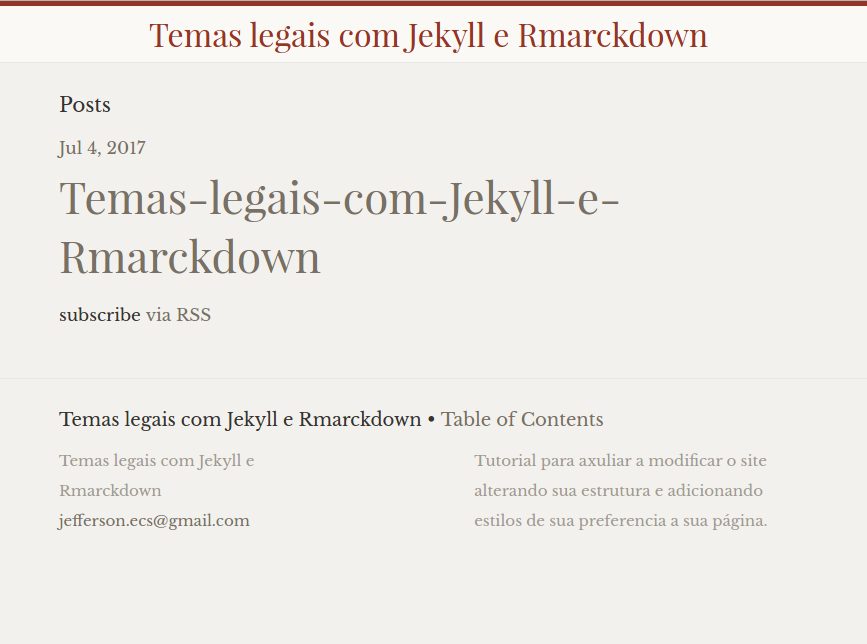
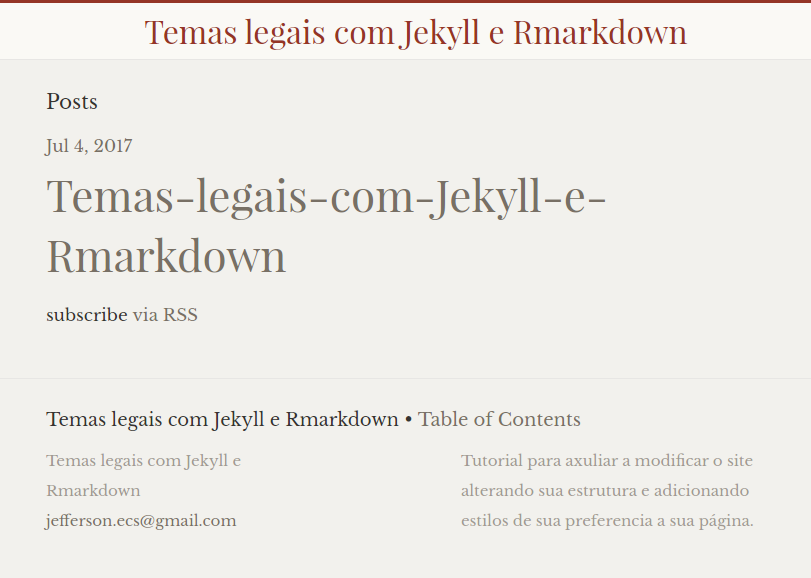
Temas Ligais com Jekyll e Rmarkdown

diff --git a/_site/2017/07/04/Temas-legais-com-Jekyll-e-Rmarkdown.html b/_site/2017/07/04/Temas-legais-com-Jekyll-e-Rmarkdown.html
@@ -8,23 +8,23 @@
 	<meta name="theme-color" content="#943526">
 
 	
-	<meta property="og:image" content="https://jeffersonemanuel.github.io/Temas-legais-com-Jekyll-e-Rmarckdown//thumbnail.jpg">
+	<meta property="og:image" content="https://jeffersonemanuel.github.io/Temas-legais-com-Jekyll-e-Rmarkdown//thumbnail.jpg">
 	
 
 	
-	<meta property="og:title" content="Temas legais com Jekyll e Rmarckdown • Temas-legais-com-Jekyll-e-Rmarckdown">
+	<meta property="og:title" content="Temas legais com Jekyll e Rmarkdown • Temas-legais-com-Jekyll-e-Rmarkdown">
 	
 
 	<link rel="icon" href="/favicon.png" type="image/png">
 
-	<title>Temas-legais-com-Jekyll-e-Rmarckdown</title>
+	<title>Temas-legais-com-Jekyll-e-Rmarkdown</title>
 	<meta name="description" content="O Jekyll possui um extenso sistema temático que permite alavancar diversos modelos e estilos disponibilizados e mantidos pela comunidade para personalizar a ...">
 
 	<link rel='stylesheet' id='libretto-fonts-css'  href='https://fonts.googleapis.com/css?family=Libre+Baskerville%3A400%2C700%2C400italic%7CPlayfair+Display%3A400%2C700%2C400italic%2C700italic%7CPlayfair+Display+SC%3A700%2C700italic%7CMontserrat%3A400%7CDroid+Sans+Mono%3A400&#038;subset=latin%2Clatin-ext' type='text/css' media='all'>
 
 	<link rel="stylesheet" href="/css/main.css">
-	<link rel="canonical" href="https://jeffersonemanuel.github.io/Temas-legais-com-Jekyll-e-Rmarckdown//2017/07/04/Temas-legais-com-Jekyll-e-Rmarckdown.html">
-	<link rel="alternate" type="application/rss+xml" title="Temas legais com Jekyll e Rmarckdown" href="https://jeffersonemanuel.github.io/Temas-legais-com-Jekyll-e-Rmarckdown//feed.xml">
+	<link rel="canonical" href="https://jeffersonemanuel.github.io/Temas-legais-com-Jekyll-e-Rmarkdown//2017/07/04/Temas-legais-com-Jekyll-e-Rmarkdown.html">
+	<link rel="alternate" type="application/rss+xml" title="Temas legais com Jekyll e Rmarkdown" href="https://jeffersonemanuel.github.io/Temas-legais-com-Jekyll-e-Rmarkdown//feed.xml">
 </head>
 
 
@@ -34,7 +34,7 @@
 
 	<div class="wrapper">
 
-		<a class="site-title" href="/">Temas legais com Jekyll e Rmarckdown</a>
+		<a class="site-title" href="/">Temas legais com Jekyll e Rmarkdown</a>
 
 	</div>
 
@@ -48,7 +48,7 @@
 		<span>Posted on </span><span class="post-meta">July 4, 2017</span>
 	</div>
 
-	<h1 class="post-title" itemprop="name headline">Temas-legais-com-Jekyll-e-Rmarckdown</h1>
+	<h1 class="post-title" itemprop="name headline">Temas-legais-com-Jekyll-e-Rmarkdown</h1>
 </header>
 
 <article class="post" itemscope itemtype="http://schema.org/BlogPosting">
@@ -118,19 +118,19 @@
 
 <ul>
   <li>
-    <p>No diretório com os arquivos extraidos faça uma cópia dos diretórios <em>_includes</em>, <em>_layouts</em>, <em>_sass</em>, <em>assets</em> e <em>css</em>  que são disponibilizados;</p>
+    <p>No diretório com os arquivos extraídos faça uma cópia dos diretórios <em>_includes</em>, <em>_layouts</em>, <em>_sass</em>, <em>assets</em> e <em>css</em>  que são disponibilizados;</p>
   </li>
   <li>
     <p>Acesse o diretório raiz do seu projeto (Primeiro Site) e cole/substitua os diretórios;</p>
   </li>
   <li>
-    <p>Abra o seu projeto Rmarckdown + Jekyll e execulte-o utilizando os comandos: <em>brocks::blog_gen()</em> e  <em>brocks::blog_serve()</em>.</p>
+    <p>Abra o seu projeto Rmarkdown + Jekyll e execute-o utilizando os comandos: <em>brocks::blog_gen()</em> e  <em>brocks::blog_serve()</em>.</p>
   </li>
 </ul>
 
-<p>Ao execultar o projeto se tudo ocorreu corretamente o site deverá ter o novo tema.</p>
+<p>Ao executar o projeto se tudo ocorreu corretamente o site deverá ter o novo tema.</p>
 
-<p><img src="https://s15.postimg.org/3ycrligyz/aparencianova.png" alt="Site com tema alterado" /></p>
+<p><img src="https://s12.postimg.org/hmzir4ikt/aparencianova.png" alt="Site com tema alterado" /></p>
 
 	</div>
 </article>
@@ -152,12 +152,12 @@
 
 	<div class="wrapper">
 
-		<h2 class="footer-heading">Temas legais com Jekyll e Rmarckdown • <a href="/table-of-contents">Table of Contents</a></h2>
+		<h2 class="footer-heading">Temas legais com Jekyll e Rmarkdown • <a href="/table-of-contents">Table of Contents</a></h2>
 
 		<div class="footer-col-wrapper">
 			<div class="footer-col footer-col-1">
 				<ul class="contact-list">
-					<li>Temas legais com Jekyll e Rmarckdown</li>
+					<li>Temas legais com Jekyll e Rmarkdown</li>
 					<li><a href="mailto:jefferson.ecs@gmail.com">jefferson.ecs@gmail.com</a></li>
 				</ul>
 			</div>

diff --git a/_site/table-of-contents.html b/_site/table-of-contents.html
@@ -8,23 +8,23 @@
 	<meta name="theme-color" content="#943526">
 
 	
-	<meta property="og:image" content="https://jeffersonemanuel.github.io/Temas-legais-com-Jekyll-e-Rmarckdown//thumbnail.jpg">
+	<meta property="og:image" content="https://jeffersonemanuel.github.io/Temas-legais-com-Jekyll-e-Rmarkdown//thumbnail.jpg">
 	
 
 	
-	<meta property="og:title" content="Temas legais com Jekyll e Rmarckdown">
+	<meta property="og:title" content="Temas legais com Jekyll e Rmarkdown">
 	
 
 	<link rel="icon" href="/favicon.png" type="image/png">
 
-	<title>Temas legais com Jekyll e Rmarckdown</title>
+	<title>Temas legais com Jekyll e Rmarkdown</title>
 	<meta name="description" content="Tutorial para axuliar a modificar o site alterando sua estrutura e adicionando estilos de sua preferencia a sua página.">
 
 	<link rel='stylesheet' id='libretto-fonts-css'  href='https://fonts.googleapis.com/css?family=Libre+Baskerville%3A400%2C700%2C400italic%7CPlayfair+Display%3A400%2C700%2C400italic%2C700italic%7CPlayfair+Display+SC%3A700%2C700italic%7CMontserrat%3A400%7CDroid+Sans+Mono%3A400&#038;subset=latin%2Clatin-ext' type='text/css' media='all'>
 
 	<link rel="stylesheet" href="/css/main.css">
-	<link rel="canonical" href="https://jeffersonemanuel.github.io/Temas-legais-com-Jekyll-e-Rmarckdown//table-of-contents.html">
-	<link rel="alternate" type="application/rss+xml" title="Temas legais com Jekyll e Rmarckdown" href="https://jeffersonemanuel.github.io/Temas-legais-com-Jekyll-e-Rmarckdown//feed.xml">
+	<link rel="canonical" href="https://jeffersonemanuel.github.io/Temas-legais-com-Jekyll-e-Rmarkdown//table-of-contents.html">
+	<link rel="alternate" type="application/rss+xml" title="Temas legais com Jekyll e Rmarkdown" href="https://jeffersonemanuel.github.io/Temas-legais-com-Jekyll-e-Rmarkdown//feed.xml">
 </head>
 
 
@@ -34,7 +34,7 @@
 
 	<div class="wrapper">
 
-		<a class="site-title" href="/">Temas legais com Jekyll e Rmarckdown</a>
+		<a class="site-title" href="/">Temas legais com Jekyll e Rmarkdown</a>
 
 	</div>
 
@@ -52,7 +52,7 @@
 		<li>
 			<span class="post-meta" style="font-style: italic;">• July 4, 2017 •</span>
 
-			<h3><a href="/2017/07/04/Temas-legais-com-Jekyll-e-Rmarckdown.html">Temas-legais-com-Jekyll-e-Rmarckdown</a></h3>
+			<h3><a href="/2017/07/04/Temas-legais-com-Jekyll-e-Rmarkdown.html">Temas-legais-com-Jekyll-e-Rmarkdown</a></h3>
 		</li>
 		
 	</ul>
@@ -66,12 +66,12 @@
 
 	<div class="wrapper">
 
-		<h2 class="footer-heading">Temas legais com Jekyll e Rmarckdown • <a href="/table-of-contents">Table of Contents</a></h2>
+		<h2 class="footer-heading">Temas legais com Jekyll e Rmarkdown • <a href="/table-of-contents">Table of Contents</a></h2>
 
 		<div class="footer-col-wrapper">
 			<div class="footer-col footer-col-1">
 				<ul class="contact-list">
-					<li>Temas legais com Jekyll e Rmarckdown</li>
+					<li>Temas legais com Jekyll e Rmarkdown</li>
 					<li><a href="mailto:jefferson.ecs@gmail.com">jefferson.ecs@gmail.com</a></li>
 				</ul>
 			</div>

diff --git a/_site/index.html b/_site/index.html
@@ -8,23 +8,23 @@
 	<meta name="theme-color" content="#943526">
 
 	
-	<meta property="og:image" content="https://jeffersonemanuel.github.io/Temas-legais-com-Jekyll-e-Rmarckdown//thumbnail.jpg">
+	<meta property="og:image" content="https://jeffersonemanuel.github.io/Temas-legais-com-Jekyll-e-Rmarkdown//thumbnail.jpg">
 	
 
 	
-	<meta property="og:title" content="Temas legais com Jekyll e Rmarckdown">
+	<meta property="og:title" content="Temas legais com Jekyll e Rmarkdown">
 	
 
 	<link rel="icon" href="/favicon.png" type="image/png">
 
-	<title>Temas legais com Jekyll e Rmarckdown</title>
+	<title>Temas legais com Jekyll e Rmarkdown</title>
 	<meta name="description" content="Tutorial para axuliar a modificar o site alterando sua estrutura e adicionando estilos de sua preferencia a sua página.">
 
 	<link rel='stylesheet' id='libretto-fonts-css'  href='https://fonts.googleapis.com/css?family=Libre+Baskerville%3A400%2C700%2C400italic%7CPlayfair+Display%3A400%2C700%2C400italic%2C700italic%7CPlayfair+Display+SC%3A700%2C700italic%7CMontserrat%3A400%7CDroid+Sans+Mono%3A400&#038;subset=latin%2Clatin-ext' type='text/css' media='all'>
 
 	<link rel="stylesheet" href="/css/main.css">
-	<link rel="canonical" href="https://jeffersonemanuel.github.io/Temas-legais-com-Jekyll-e-Rmarckdown//">
-	<link rel="alternate" type="application/rss+xml" title="Temas legais com Jekyll e Rmarckdown" href="https://jeffersonemanuel.github.io/Temas-legais-com-Jekyll-e-Rmarckdown//feed.xml">
+	<link rel="canonical" href="https://jeffersonemanuel.github.io/Temas-legais-com-Jekyll-e-Rmarkdown//">
+	<link rel="alternate" type="application/rss+xml" title="Temas legais com Jekyll e Rmarkdown" href="https://jeffersonemanuel.github.io/Temas-legais-com-Jekyll-e-Rmarkdown//feed.xml">
 </head>
 
 
@@ -34,7 +34,7 @@
 
 	<div class="wrapper">
 
-		<a class="site-title" href="/">Temas legais com Jekyll e Rmarckdown</a>
+		<a class="site-title" href="/">Temas legais com Jekyll e Rmarkdown</a>
 
 	</div>
 
@@ -53,7 +53,7 @@
         <span class="post-meta">Jul 4, 2017</span>
 
         <h2>
-          <a class="post-link" href="/2017/07/04/Temas-legais-com-Jekyll-e-Rmarckdown.html">Temas-legais-com-Jekyll-e-Rmarckdown</a>
+          <a class="post-link" href="/2017/07/04/Temas-legais-com-Jekyll-e-Rmarkdown.html">Temas-legais-com-Jekyll-e-Rmarkdown</a>
         </h2>
       </li>
     
@@ -70,12 +70,12 @@
 
 	<div class="wrapper">
 
-		<h2 class="footer-heading">Temas legais com Jekyll e Rmarckdown • <a href="/table-of-contents">Table of Contents</a></h2>
+		<h2 class="footer-heading">Temas legais com Jekyll e Rmarkdown • <a href="/table-of-contents">Table of Contents</a></h2>
 
 		<div class="footer-col-wrapper">
 			<div class="footer-col footer-col-1">
 				<ul class="contact-list">
-					<li>Temas legais com Jekyll e Rmarckdown</li>
+					<li>Temas legais com Jekyll e Rmarkdown</li>
 					<li><a href="mailto:jefferson.ecs@gmail.com">jefferson.ecs@gmail.com</a></li>
 				</ul>
 			</div>

diff --git a/_site/404.html b/_site/404.html
@@ -8,11 +8,11 @@
 	<meta name="theme-color" content="#943526">
 
 	
-	<meta property="og:image" content="https://jeffersonemanuel.github.io/Temas-legais-com-Jekyll-e-Rmarckdown//thumbnail.jpg">
+	<meta property="og:image" content="https://jeffersonemanuel.github.io/Temas-legais-com-Jekyll-e-Rmarkdown//thumbnail.jpg">
 	
 
 	
-	<meta property="og:title" content="Temas legais com Jekyll e Rmarckdown • 404 Not Found">
+	<meta property="og:title" content="Temas legais com Jekyll e Rmarkdown • 404 Not Found">
 	
 
 	<link rel="icon" href="/favicon.png" type="image/png">
@@ -23,8 +23,8 @@
 	<link rel='stylesheet' id='libretto-fonts-css'  href='https://fonts.googleapis.com/css?family=Libre+Baskerville%3A400%2C700%2C400italic%7CPlayfair+Display%3A400%2C700%2C400italic%2C700italic%7CPlayfair+Display+SC%3A700%2C700italic%7CMontserrat%3A400%7CDroid+Sans+Mono%3A400&#038;subset=latin%2Clatin-ext' type='text/css' media='all'>
 
 	<link rel="stylesheet" href="/css/main.css">
-	<link rel="canonical" href="https://jeffersonemanuel.github.io/Temas-legais-com-Jekyll-e-Rmarckdown//404">
-	<link rel="alternate" type="application/rss+xml" title="Temas legais com Jekyll e Rmarckdown" href="https://jeffersonemanuel.github.io/Temas-legais-com-Jekyll-e-Rmarckdown//feed.xml">
+	<link rel="canonical" href="https://jeffersonemanuel.github.io/Temas-legais-com-Jekyll-e-Rmarkdown//404">
+	<link rel="alternate" type="application/rss+xml" title="Temas legais com Jekyll e Rmarkdown" href="https://jeffersonemanuel.github.io/Temas-legais-com-Jekyll-e-Rmarkdown//feed.xml">
 </head>
 
 
@@ -34,7 +34,7 @@
 
 	<div class="wrapper">
 
-		<a class="site-title" href="/">Temas legais com Jekyll e Rmarckdown</a>
+		<a class="site-title" href="/">Temas legais com Jekyll e Rmarkdown</a>
 
 	</div>
 
@@ -65,12 +65,12 @@
 
 	<div class="wrapper">
 
-		<h2 class="footer-heading">Temas legais com Jekyll e Rmarckdown • <a href="/table-of-contents">Table of Contents</a></h2>
+		<h2 class="footer-heading">Temas legais com Jekyll e Rmarkdown • <a href="/table-of-contents">Table of Contents</a></h2>
 
 		<div class="footer-col-wrapper">
 			<div class="footer-col footer-col-1">
 				<ul class="contact-list">
-					<li>Temas legais com Jekyll e Rmarckdown</li>
+					<li>Temas legais com Jekyll e Rmarkdown</li>
 					<li><a href="mailto:jefferson.ecs@gmail.com">jefferson.ecs@gmail.com</a></li>
 				</ul>
 			</div>

diff --git a/_site/about/index.html b/_site/about/index.html
@@ -8,11 +8,11 @@
 	<meta name="theme-color" content="#943526">
 
 	
-	<meta property="og:image" content="https://jeffersonemanuel.github.io/Temas-legais-com-Jekyll-e-Rmarckdown//thumbnail.jpg">
+	<meta property="og:image" content="https://jeffersonemanuel.github.io/Temas-legais-com-Jekyll-e-Rmarkdown//thumbnail.jpg">
 	
 
 	
-	<meta property="og:title" content="Temas legais com Jekyll e Rmarckdown • About">
+	<meta property="og:title" content="Temas legais com Jekyll e Rmarkdown • About">
 	
 
 	<link rel="icon" href="/favicon.png" type="image/png">
@@ -23,8 +23,8 @@
 	<link rel='stylesheet' id='libretto-fonts-css'  href='https://fonts.googleapis.com/css?family=Libre+Baskerville%3A400%2C700%2C400italic%7CPlayfair+Display%3A400%2C700%2C400italic%2C700italic%7CPlayfair+Display+SC%3A700%2C700italic%7CMontserrat%3A400%7CDroid+Sans+Mono%3A400&#038;subset=latin%2Clatin-ext' type='text/css' media='all'>
 
 	<link rel="stylesheet" href="/css/main.css">
-	<link rel="canonical" href="https://jeffersonemanuel.github.io/Temas-legais-com-Jekyll-e-Rmarckdown//about/">
-	<link rel="alternate" type="application/rss+xml" title="Temas legais com Jekyll e Rmarckdown" href="https://jeffersonemanuel.github.io/Temas-legais-com-Jekyll-e-Rmarckdown//feed.xml">
+	<link rel="canonical" href="https://jeffersonemanuel.github.io/Temas-legais-com-Jekyll-e-Rmarkdown//about/">
+	<link rel="alternate" type="application/rss+xml" title="Temas legais com Jekyll e Rmarkdown" href="https://jeffersonemanuel.github.io/Temas-legais-com-Jekyll-e-Rmarkdown//feed.xml">
 </head>
 
 
@@ -34,7 +34,7 @@
 
 	<div class="wrapper">
 
-		<a class="site-title" href="/">Temas legais com Jekyll e Rmarckdown</a>
+		<a class="site-title" href="/">Temas legais com Jekyll e Rmarkdown</a>
 
 	</div>
 
@@ -67,12 +67,12 @@
 
 	<div class="wrapper">
 
-		<h2 class="footer-heading">Temas legais com Jekyll e Rmarckdown • <a href="/table-of-contents">Table of Contents</a></h2>
+		<h2 class="footer-heading">Temas legais com Jekyll e Rmarkdown • <a href="/table-of-contents">Table of Contents</a></h2>
 
 		<div class="footer-col-wrapper">
 			<div class="footer-col footer-col-1">
 				<ul class="contact-list">
-					<li>Temas legais com Jekyll e Rmarckdown</li>
+					<li>Temas legais com Jekyll e Rmarkdown</li>
 					<li><a href="mailto:jefferson.ecs@gmail.com">jefferson.ecs@gmail.com</a></li>
 				</ul>
 			</div>

diff --git a/_posts/2017-06-27-Temas-legais-com-Jekyll-e-Rmarkdown.md b/_posts/2017-06-27-Temas-legais-com-Jekyll-e-Rmarkdown.md
@@ -1,7 +1,7 @@
 ---
 layout: post
-title:  Temas-legais-com-Jekyll-e-Rmarckdown
-date: 2017-07-04 12:51:51
+title:  Temas-legais-com-Jekyll-e-Rmarkdown
+date: 2017-07-04 13:23:50
 published: true
 tags: [htmlwidgets, r]
 ---
@@ -51,10 +51,6 @@ E terá a estrutura:
 
 ![Extrutura Inicial - retirada do tutorial: Jekyll Primeira Postagem](https://s7.postimg.org/kbg69glxn/estruturabase.png)
 
-
-
-
-
 Os diretórios: *_includes*, *_layouts*, *_sass*, *assets* e o *css*, são os diretórios utilizados para definir o tema do seu site. Para modificar primeiro você deve fazer o download de um dos temas disponibilizados nos sites apresentados no início deste tutorial. Para este exemplo vamos utilizar o tema [jekyll-theme-libretto](http://jekyllthemes.org/themes/jekyll-theme-libretto/) disponibilizado no site [http://jekyllthemes.org/](http://jekyllthemes.org/).
 
 
@@ -66,15 +62,15 @@ Após fazer o download de tema você deve seguir os seguintes passos:
 
 ![Estrutura Libretto](https://s24.postimg.org/luo0fbdbp/estruturalibretto.png)
 
-* No diretório com os arquivos extraidos faça uma cópia dos diretórios *_includes*, *_layouts*, *_sass*, *assets* e *css*  que são disponibilizados;
+* No diretório com os arquivos extraídos faça uma cópia dos diretórios *_includes*, *_layouts*, *_sass*, *assets* e *css*  que são disponibilizados;
 
 
 * Acesse o diretório raiz do seu projeto (Primeiro Site) e cole/substitua os diretórios;
 
 
-* Abra o seu projeto Rmarckdown + Jekyll e execulte-o utilizando os comandos: *brocks::blog_gen()* e  *brocks::blog_serve()*. 
+* Abra o seu projeto Rmarkdown + Jekyll e execute-o utilizando os comandos: *brocks::blog_gen()* e  *brocks::blog_serve()*. 
 
 
-Ao execultar o projeto se tudo ocorreu corretamente o site deverá ter o novo tema.
+Ao executar o projeto se tudo ocorreu corretamente o site deverá ter o novo tema.
 
-![Site com tema alterado](https://s15.postimg.org/3ycrligyz/aparencianova.png)
+![Site com tema alterado](https://s12.postimg.org/hmzir4ikt/aparencianova.png)
